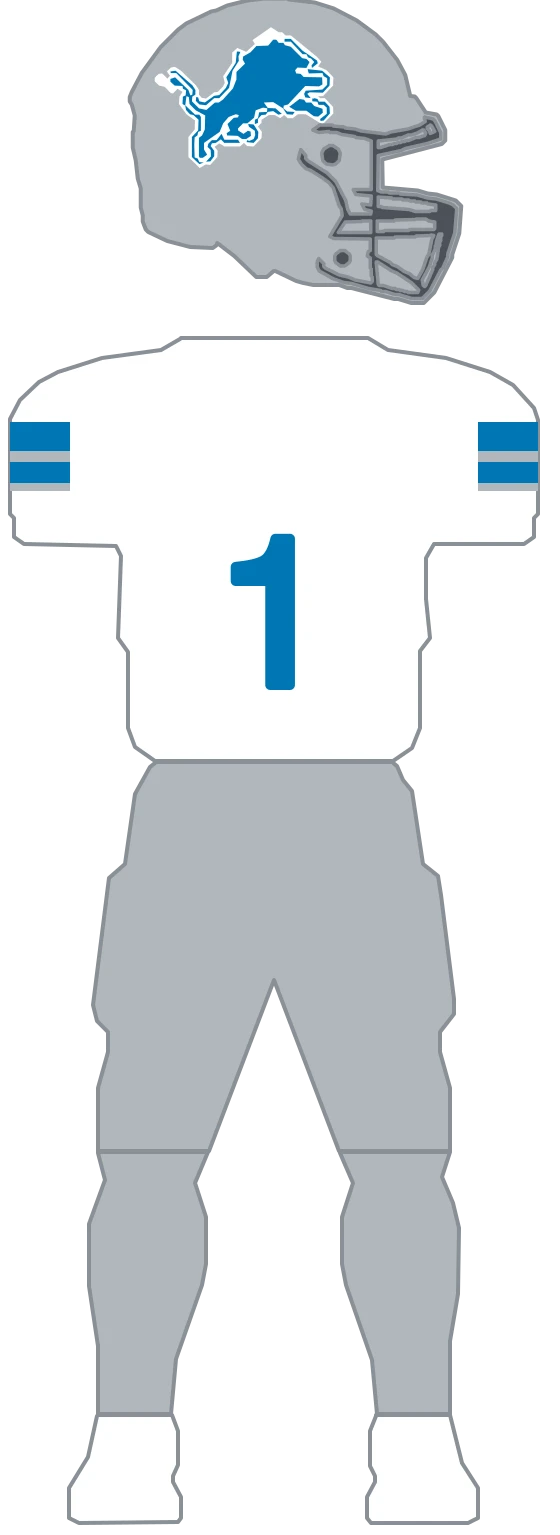
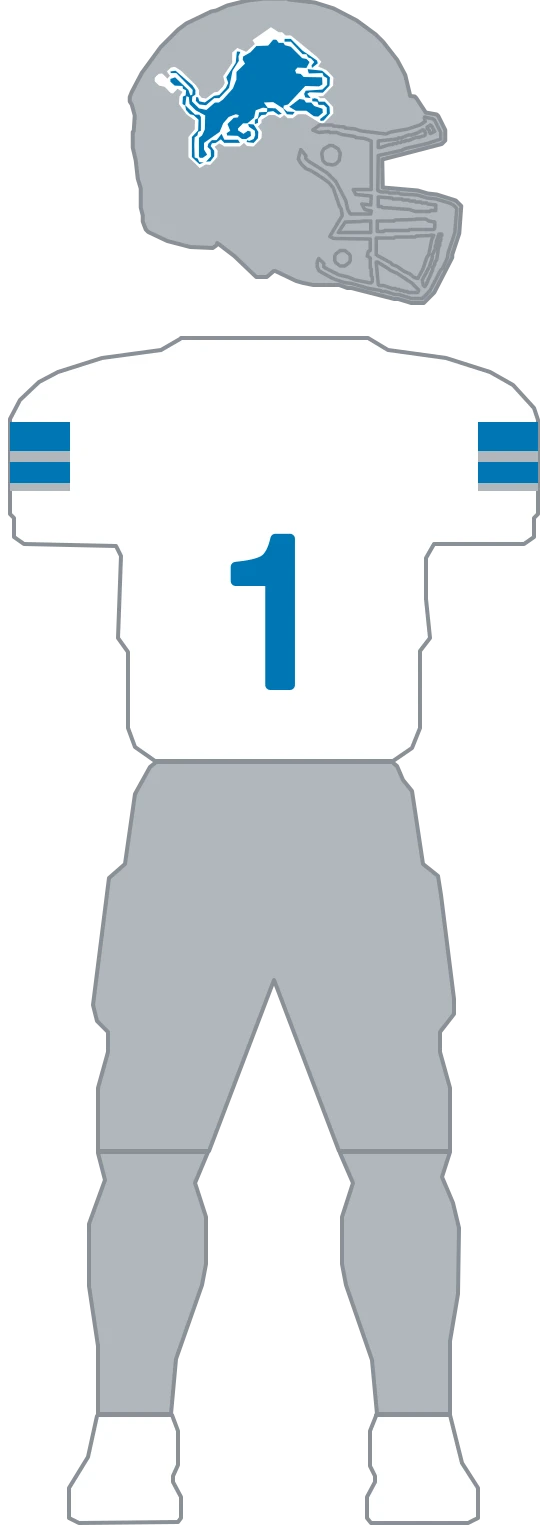
feat(uniforms): migrate Lions to composable parts and set its silver facemask (#677)
The construction is one four-band stripe set floating on the outer third of
each sleeve, plus a leaping-lion decal (white keyline, blue body). All three
kits wear the SAME silver shell with the lion; the body and pants vary. Parts
express that: 1 helmet (H1 silver lion), 3 jerseys (J1 blue, J2 white, J3
gridiron gray), 2 pants (P1 blue, P2 silver), matching the measured target.
The flat form reached the shell through `secondary` at home and `accent` away,
and the pants through primary/accent across kits; parts name those from a team
palette (blue/white/silver), with the two shared pant parts spelled out.

The migration's parity gate proved all 9 lions rasters (3 kits x 2 variants)
byte-identical against the flat definition, then the flat definition and its
builder helpers were deleted and the team removed from MIGRATED, per the
one-time-proof lifecycle (depth#660).

Facemask follows the parts migration per phase order: the modern silver shell
wears a silver facemask (named sources: "silver polyvinyl-coated steel face
mask"); GUD cannot separate silver-on-silver, so the named source and the
team's silver #B0B7BC are the source of truth. Only the three -full rasters
move, each change confined to its helmet region (verified pixel-diffed).
Home/away band bounds are flagged in lions.ts as an approximation of a few
units per band (measured on the home figure only) — carried over unchanged.

diff --git a/lib/uniforms/teams/lions.ts b/lib/uniforms/teams/lions.ts
@@ -1,25 +1,7 @@
-import type { ColorRef, TeamUniformDefinition, UniformLayer, UniformSurface } from './types';
-
-// Detroit's three archived kits, redrawn from the Gridiron Uniform Database 2025 composite in
-// nfl-uniform-refs/lions (home is that sheet's row-1 figure 5, away its row-2 figure 1). Sleeve
-// paths use the outer 588-wide mannequin space; right paths mirror the left across the centerline
-// x=294 (mirroredX = 588 - x).
-//
-// The construction is one four-band stripe set floating on the outer third of each sleeve — it
-// starts and ends in body color rather than running to the hem, which is what distinguishes it from
-// the cuff bands most teams here wear. No helmet stripe, no collar trim, no pant stripe.
-//
-// TWO THINGS ARE SHORT OF FULLY MEASURED, and both are flagged rather than hidden:
-//   1. The band BOUNDS are measured on the home figure only. The away figure's set was sampled at
-//      one column and reads blue/silver/blue at slightly different offsets; it is authored on the
-//      home bounds with the away colors, which is an approximation of a few units per band.
-//   2. The gridiron-gray kit is INFERRED. The 2025 composite contains no silver jersey at all — its
-//      silver figures are silver PANTS under blue jerseys — so that kit reuses the measured
-//      geometry with a color assignment that is a judgement call.
-// Re-measure both against a sheet that carries them before treating this module as finished.
-//
-// Out of scope on every kit: the chest wordmark, the league shield, the shoulder numerals, and the
-// Thanksgiving patch the reference draws beside row 1.
+// Detroit's construction geometry — the lion decal and sleeve-band constants only. The
+// composable parts definition that consumes them lives in ./lions.parts.ts; the former flat
+// LIONS_UNIFORMS was deleted in the migration that proved parts render byte-identically (see
+// parts-parity.test.ts for the one-time gate).
 
 // White is a literal. The home palette is blue over silver with accent === secondary (ESPN supplies
 // only two colors), so no token resolves to the thin white lines through the sleeve set or to the
@@ -53,95 +35,3 @@ export const LIONS_DECAL_BODY_PATH =
 export const LIONS_STRIPE_BOUNDS = [467, 496, 507, 528, 536];
 export const LIONS_SLEEVE_X_LEFT = [30, 90];
 export const LIONS_SLEEVE_X_RIGHT = [498, 558];
-
-const GENERIC_STRIPPED = [
-  'generic-helmet-stripe',
-  'generic-sleeve-yoke-left',
-  'generic-sleeve-yoke-right',
-  'generic-sleeve-stripe-left',
-  'generic-sleeve-stripe-right',
-  'generic-collar',
-  'generic-pants-stripe-left',
-  'generic-pants-stripe-right',
-];
-
-// Four contiguous bands, outer color and inner color alternating from the top down.
-function sleeveStripes(band: ColorRef, line: ColorRef): UniformLayer[] {
-  const out: UniformLayer[] = [];
-  const sides: [UniformSurface, number[]][] = [
-    ['sleeve-left', LIONS_SLEEVE_X_LEFT],
-    ['sleeve-right', LIONS_SLEEVE_X_RIGHT],
-  ];
-
-  for (let i = 0; i < LIONS_STRIPE_BOUNDS.length - 1; i += 1) {
-    const top = LIONS_STRIPE_BOUNDS[i];
-    const bottom = LIONS_STRIPE_BOUNDS[i + 1];
-    for (const [surface, [x0, x1]] of sides) {
-      const side = surface === 'sleeve-left' ? 'left' : 'right';
-      out.push({
-        id: `lions-sleeve-band-${i}-${side}`,
-        surface,
-        d: `M${x0},${top} H${x1} V${bottom} H${x0} Z`,
-        clip: true,
-        kind: 'fill',
-        fill: i % 2 === 0 ? band : line,
-      });
-    }
-  }
-
-  return out;
-}
-
-// The lion is blue over a white keyline on every kit; only which token carries the blue moves.
-function decal(body: ColorRef): UniformLayer[] {
-  return [
-    {
-      id: 'lions-decal-keyline',
-      surface: 'helmet',
-      d: LIONS_DECAL_KEYLINE_PATH,
-      clip: true,
-      kind: 'fill',
-      fill: LIONS_WHITE,
-    },
-    {
-      id: 'lions-decal-body',
-      surface: 'helmet',
-      d: LIONS_DECAL_BODY_PATH,
-      clip: true,
-      kind: 'fill',
-      fill: body,
-    },
-  ];
-}
-
-export const LIONS_UNIFORMS: TeamUniformDefinition = {
-  teamId: 'lions',
-  defaults: { removeLayerIds: GENERIC_STRIPPED },
-  kits: {
-    // Blue body and pants under the silver shell. Silver is `secondary` here, so it carries both
-    // the shell and the two wide bands; the thin lines between them and the numeral face are white,
-    // which this palette cannot supply, so both take the literal.
-    home: {
-      helmetColor: 'secondary',
-      layers: [...sleeveStripes('secondary', LIONS_WHITE), ...decal('primary')],
-      number: { fill: LIONS_WHITE, outline: LIONS_WHITE, outlineWidth: 10 },
-    },
-    // White body over silver pants under the same silver shell. The away palette moves white into
-    // primary, blue into secondary and silver into accent, so the set inverts to blue bands with
-    // silver lines and the numerals take the blue. Band bounds are the home figure's — see the
-    // approximation noted above.
-    away: {
-      helmetColor: 'accent',
-      pantsColor: 'accent',
-      layers: [...sleeveStripes('secondary', 'accent'), ...decal('secondary')],
-      number: { fill: 'secondary', outline: 'secondary', outlineWidth: 10 },
-    },
-    // INFERRED — no silver jersey appears in the 2025 reference. Silver is this kit's primary, so
-    // the shell and pants need no override; the bands take the kit's own blue `secondary` and the
-    // lines fall back to the white literal, matching how every other kit here separates its bands.
-    'gridiron-gray': {
-      layers: [...sleeveStripes('secondary', LIONS_WHITE), ...decal('secondary')],
-      number: { fill: LIONS_WHITE, outline: 'secondary', outlineWidth: 14 },
-    },
-  },
-};

diff --git a/lib/uniforms/teams/lions.parts.ts b/lib/uniforms/teams/lions.parts.ts
@@ -1,0 +1,129 @@
+// Detroit authored as composable parts. Geometry is imported unchanged from lions.ts — this file
+// only restates WHICH parts each kit combines, and names every color from the team palette instead
+// of the kit row's shifting primary/secondary/accent.
+//
+// The construction is one four-band stripe set floating on the outer third of each sleeve, and a
+// leaping-lion decal (white keyline, blue body). All three kits wear the SAME silver shell with
+// the lion. The body and pants do vary: home is a blue body over (default) blue pants, away a
+// white body over silver pants (accent), and gridiron-gray a silver body over silver pants
+// (primary) — so the two shared pant parts are blue (home) and silver (away + gridiron).
+
+import {
+  LIONS_DECAL_BODY_PATH,
+  LIONS_DECAL_KEYLINE_PATH,
+  LIONS_SLEEVE_X_LEFT,
+  LIONS_SLEEVE_X_RIGHT,
+  LIONS_STRIPE_BOUNDS,
+} from './lions';
+import { compileParts, type PartLayer, type TeamPartsDefinition, type UniformPart } from './parts';
+import type { UniformSurface } from './types';
+
+// Four contiguous sleeve bands, outer color and inner color alternating from the top down.
+function sleeveStripes(band: string, line: string): PartLayer[] {
+  const out: PartLayer[] = [];
+  const sides: [UniformSurface, number[]][] = [
+    ['sleeve-left', LIONS_SLEEVE_X_LEFT],
+    ['sleeve-right', LIONS_SLEEVE_X_RIGHT],
+  ];
+  for (let i = 0; i < LIONS_STRIPE_BOUNDS.length - 1; i += 1) {
+    const top = LIONS_STRIPE_BOUNDS[i];
+    const bottom = LIONS_STRIPE_BOUNDS[i + 1];
+    for (const [surface, [x0, x1]] of sides) {
+      const side = surface === 'sleeve-left' ? 'left' : 'right';
+      out.push({
+        id: `lions-sleeve-band-${i}-${side}`,
+        surface,
+        d: `M${x0},${top} H${x1} V${bottom} H${x0} Z`,
+        clip: true,
+        kind: 'fill',
+        fill: i % 2 === 0 ? band : line,
+      });
+    }
+  }
+  return out;
+}
+
+// The silver shell with the leaping-lion decal (white keyline, then the blue body over it) — one
+// object, shared by every kit. The keyline is the body mask grown by nine upsampled px, not a
+// traced ring (see lions.ts).
+//
+// Silver cage. The modern silver shell wears a silver facemask (named sources: "silver
+// polyvinyl-coated steel face mask"); GUD cannot separate a silver cage from the same-toned shell,
+// so the named source and the team's silver #B0B7BC are the source of truth here. The shared
+// neutral #4b5158 it replaces is a dark grey that reads as a hole in the silver shell.
+const HELMET_SILVER_LION: UniformPart = {
+  base: 'silver',
+  facemask: 'silver',
+  layers: [
+    {
+      id: 'lions-decal-keyline',
+      surface: 'helmet',
+      d: LIONS_DECAL_KEYLINE_PATH,
+      clip: true,
+      kind: 'fill',
+      fill: 'white',
+    },
+    {
+      id: 'lions-decal-body',
+      surface: 'helmet',
+      d: LIONS_DECAL_BODY_PATH,
+      clip: true,
+      kind: 'fill',
+      fill: 'blue',
+    },
+  ],
+};
+
+// Home jersey: blue body, silver/white four-band set, white numerals.
+const JERSEY_BLUE: UniformPart = {
+  base: 'blue',
+  layers: sleeveStripes('silver', 'white'),
+  number: { fill: 'white', outline: 'white', outlineWidth: 10 },
+};
+
+// Away jersey: white body, blue/silver four-band set (inverted), blue numerals. Band bounds are
+// the home figure's — the two-kit approximation noted in lions.ts.
+const JERSEY_WHITE: UniformPart = {
+  base: 'white',
+  layers: sleeveStripes('blue', 'silver'),
+  number: { fill: 'blue', outline: 'blue', outlineWidth: 10 },
+};
+
+// Gridiron-gray jersey: silver body, blue/white four-band set, white numerals ringed blue.
+// INFERRED — no silver jersey appears in the 2025 reference (see lions.ts).
+const JERSEY_GRAY: UniformPart = {
+  base: 'silver',
+  layers: sleeveStripes('blue', 'white'),
+  number: { fill: 'white', outline: 'blue', outlineWidth: 14 },
+};
+
+// Blue pants (home).
+const PANTS_BLUE: UniformPart = { base: 'blue', layers: [] };
+
+// Silver pants (away and gridiron — away reaches it through 'accent', gridiron through 'primary').
+const PANTS_SILVER: UniformPart = { base: 'silver', layers: [] };
+
+export const LIONS_PARTS: TeamPartsDefinition = {
+  teamId: 'lions',
+  // Jersey hexes from the curated rows (teamcolorcodes). Silver is the shell/body color that the
+  // rows carry across different primary/secondary/accent slots; blue is home/away's shared body.
+  palette: {
+    blue: '#0076B6',
+    white: '#FFFFFF',
+    silver: '#B0B7BC',
+  },
+  helmets: { 'silver-lion': HELMET_SILVER_LION },
+  jerseys: {
+    blue: JERSEY_BLUE,
+    white: JERSEY_WHITE,
+    gray: JERSEY_GRAY,
+  },
+  pants: { blue: PANTS_BLUE, silver: PANTS_SILVER },
+  kits: {
+    home: { helmet: 'silver-lion', jersey: 'blue', pants: 'blue' },
+    away: { helmet: 'silver-lion', jersey: 'white', pants: 'silver' },
+    'gridiron-gray': { helmet: 'silver-lion', jersey: 'gray', pants: 'silver' },
+  },
+};
+
+export const LIONS_UNIFORMS_FROM_PARTS = compileParts(LIONS_PARTS);

diff --git a/lib/uniforms/teams/index.ts b/lib/uniforms/teams/index.ts
@@ -17,7 +17,7 @@ import { FALCONS_UNIFORMS_FROM_PARTS } from './falcons.parts';
 import { GIANTS_UNIFORMS_FROM_PARTS } from './giants.parts';
 import { JAGUARS_UNIFORMS } from './jaguars';
 import { JETS_UNIFORMS } from './jets';
-import { LIONS_UNIFORMS } from './lions';
+import { LIONS_UNIFORMS_FROM_PARTS } from './lions.parts';
 import { NINERS_UNIFORMS_FROM_PARTS } from './niners.parts';
 import { PANTHERS_UNIFORMS } from './panthers';
 import { PATRIOTS_UNIFORMS } from './patriots';
@@ -57,7 +57,7 @@ chiefs: CHIEFS_UNIFORMS_FROM_PARTS,
   giants: GIANTS_UNIFORMS_FROM_PARTS,
   jaguars: JAGUARS_UNIFORMS,
   jets: JETS_UNIFORMS,
-  lions: LIONS_UNIFORMS,
+  lions: LIONS_UNIFORMS_FROM_PARTS,
   packers: PACKERS_UNIFORMS,
   panthers: PANTHERS_UNIFORMS,
   patriots: PATRIOTS_UNIFORMS,
